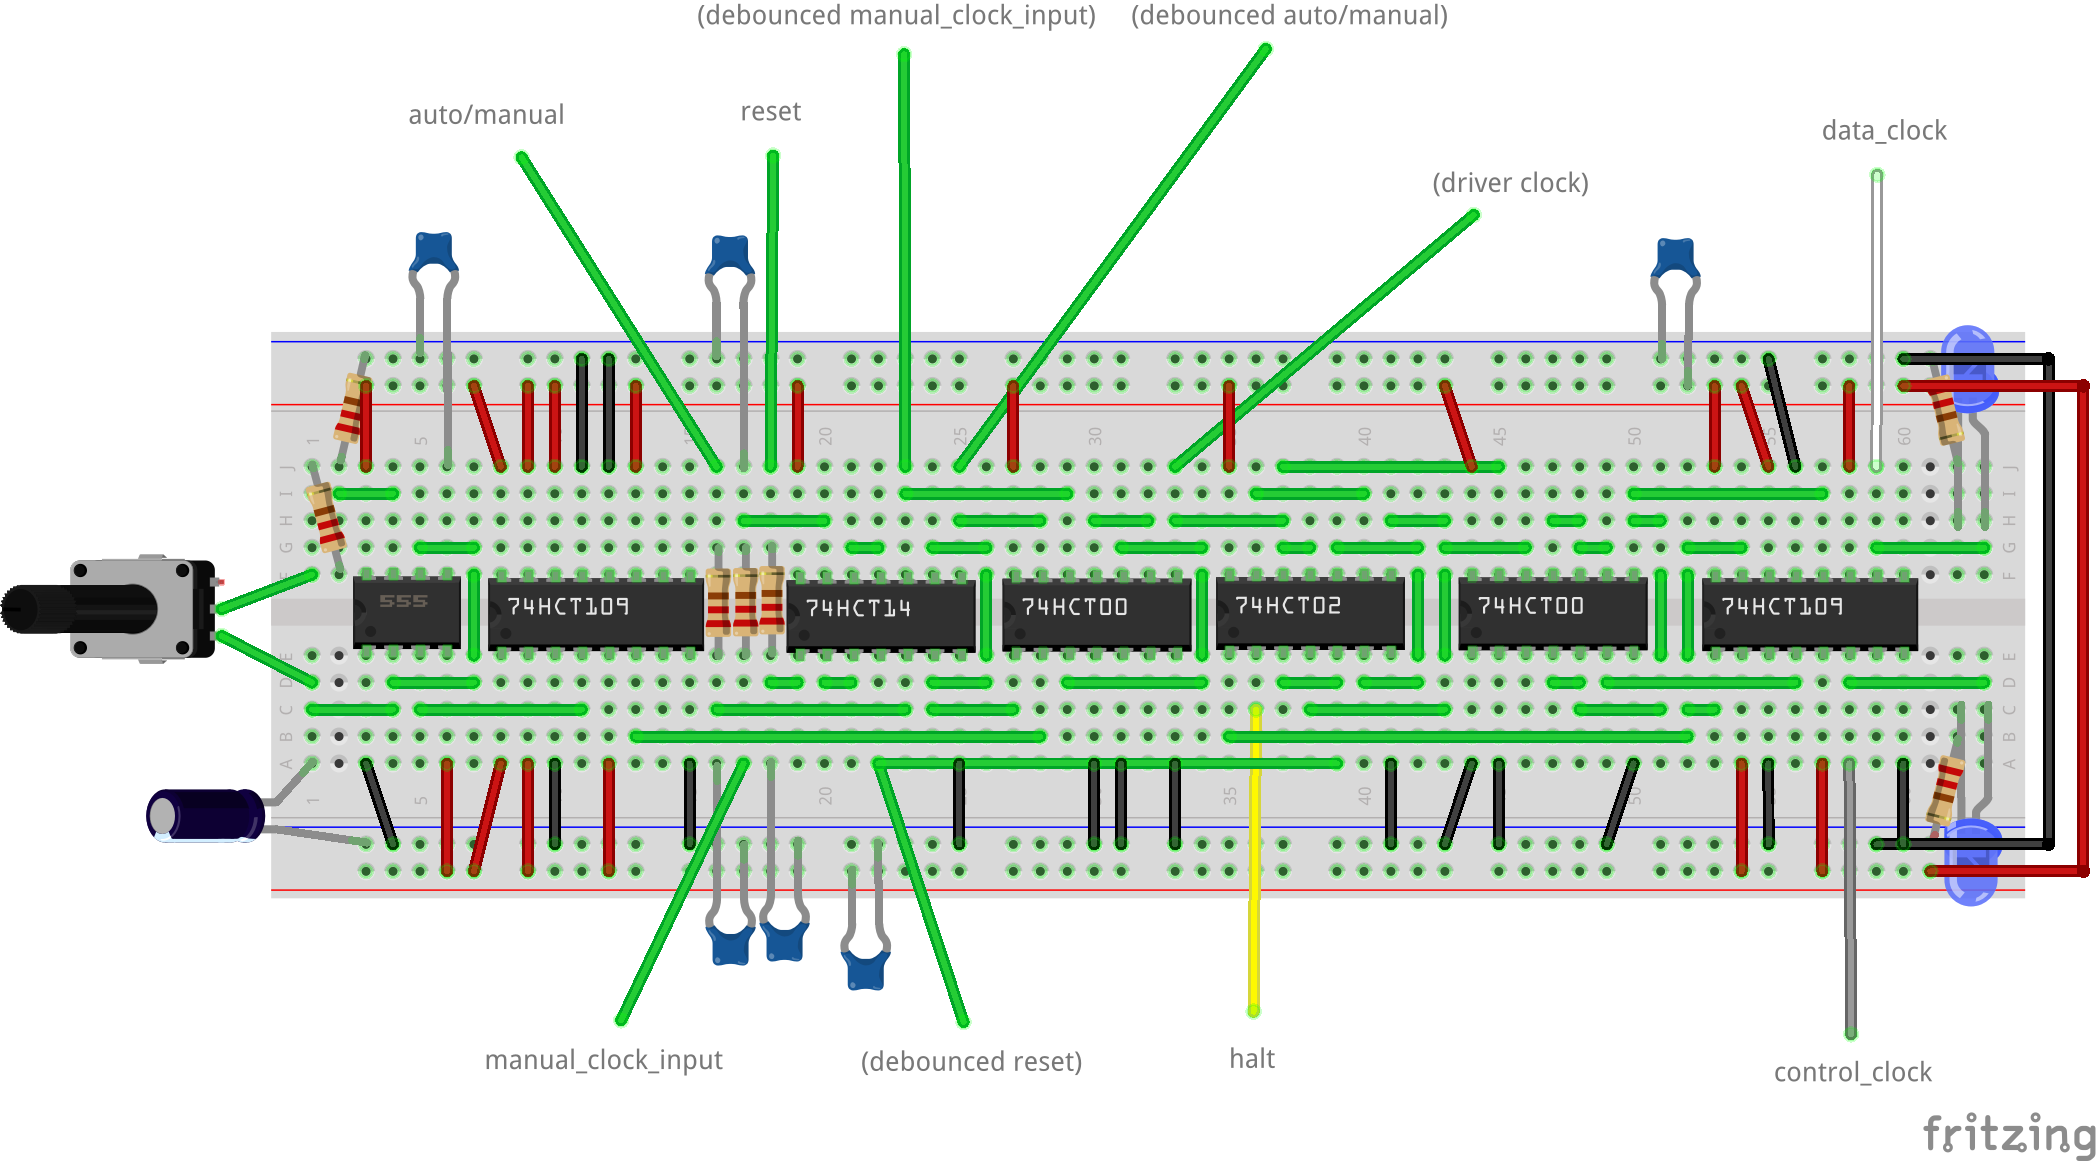
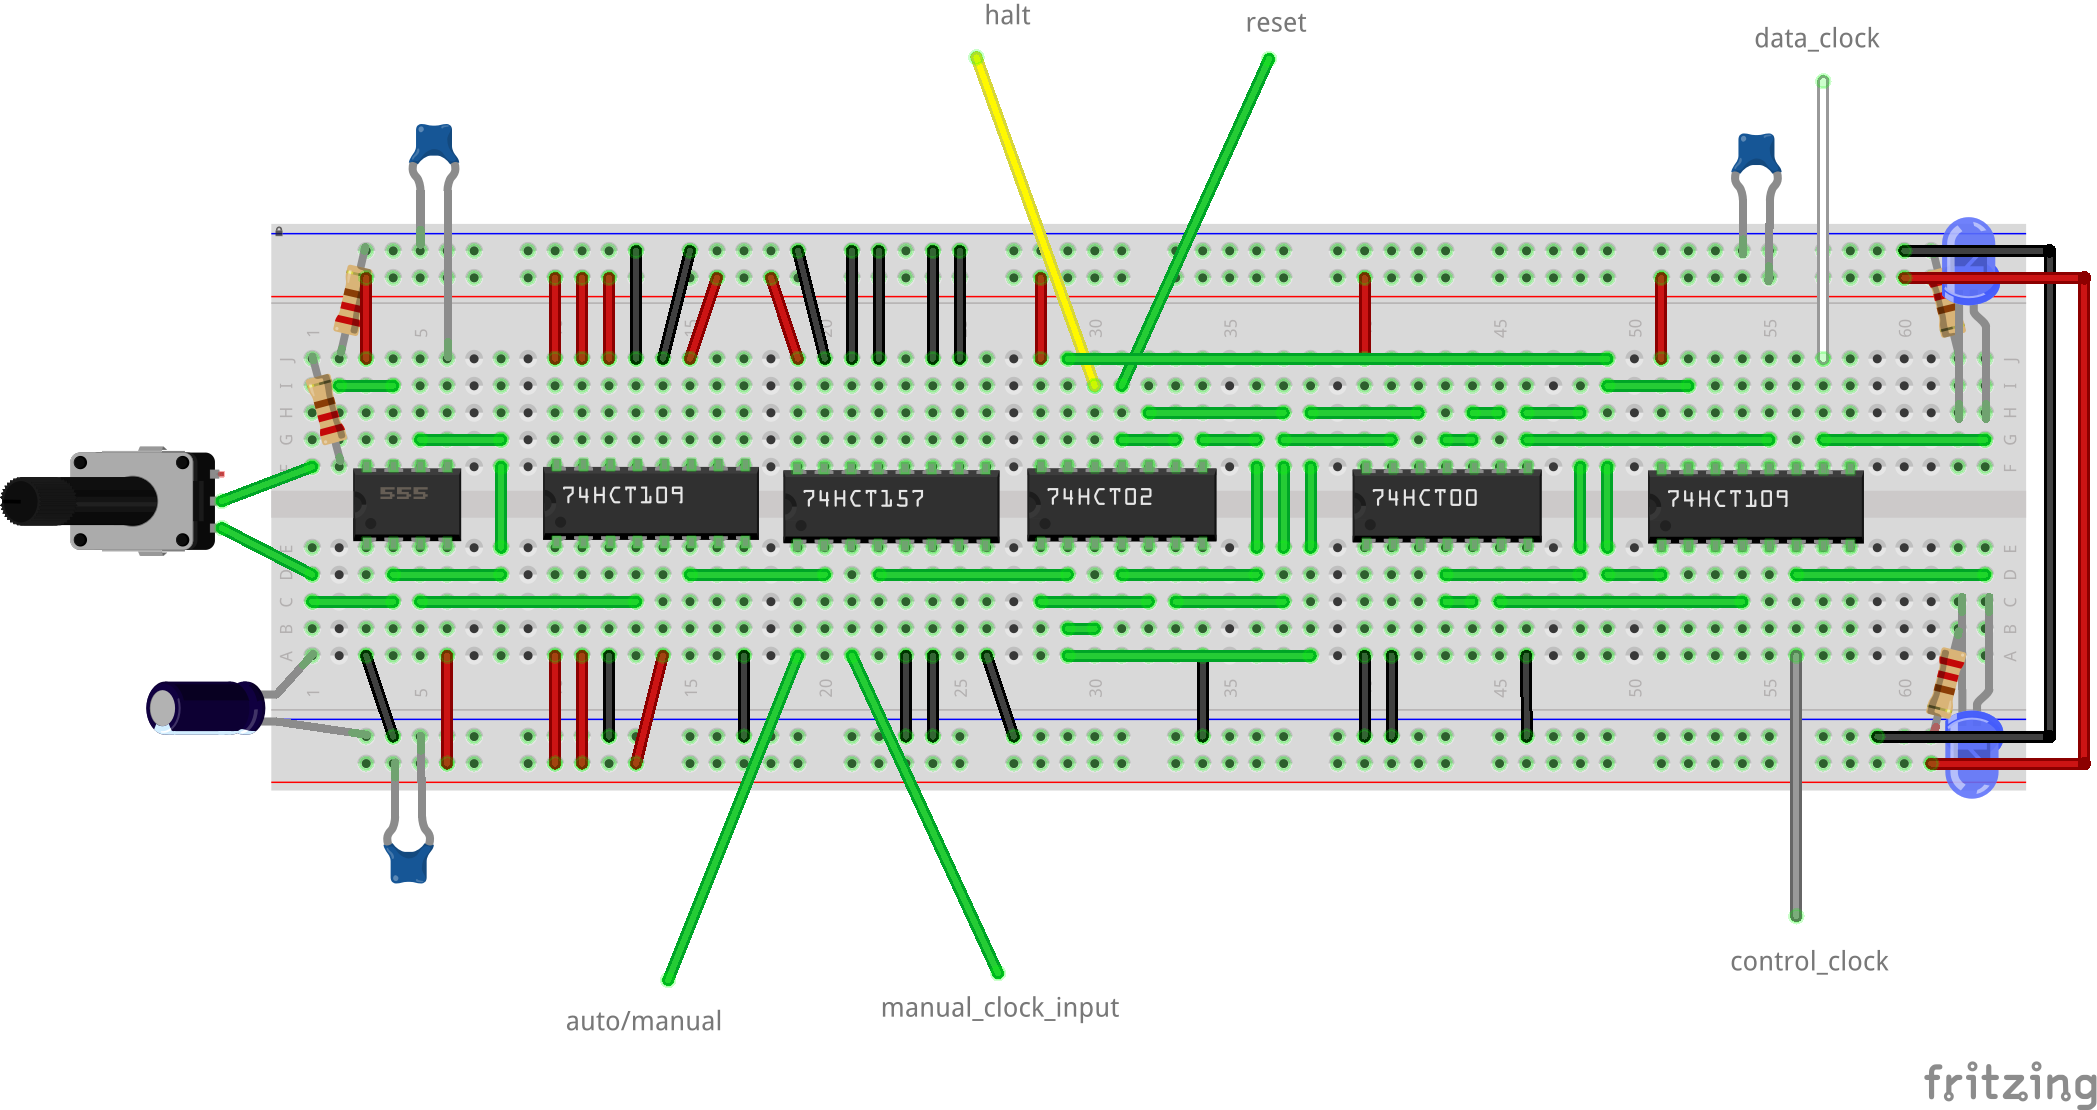
Remove debouncing from clock, update docs and fritzing files.

diff --git a/docs/modules/clock.rst b/docs/modules/clock.rst
@@ -125,17 +125,12 @@ the best use of space and gates available on chips:
 Hardware
 ^^^^^^^^
 
-There is also some debouncing that happens on the clock for the manual signals.
-
 The following electronics are used:
 
 - A 555 and accompanying resistors and capacitors to generate the auto
   clock signal.
 - A 74HCT109 to get an even duty cycle from the 555.
-- A 74HCT14 and accompanying resistors and capacitors to debounce the
-  manual inputs.
-- A 74HCT00 to create a multiplexer to select between the manual and
-  auto clock signals.
+- A 74HCT157 to multiplex between the manual and auto clock signals.
 - A 74HCT02 and 74HCT00 to create the safe clock gate and some
   additional signal inverting.
 - Another 74HCT109 to provide the last 2 toggles for the clocks.
@@ -144,5 +139,3 @@ The components are laid out on the breadboard like so:
 
 .. image:: images/clock/clock_bb.png
     :width: 100%
-
-The clock module is the first in the list to be redesigned :).
